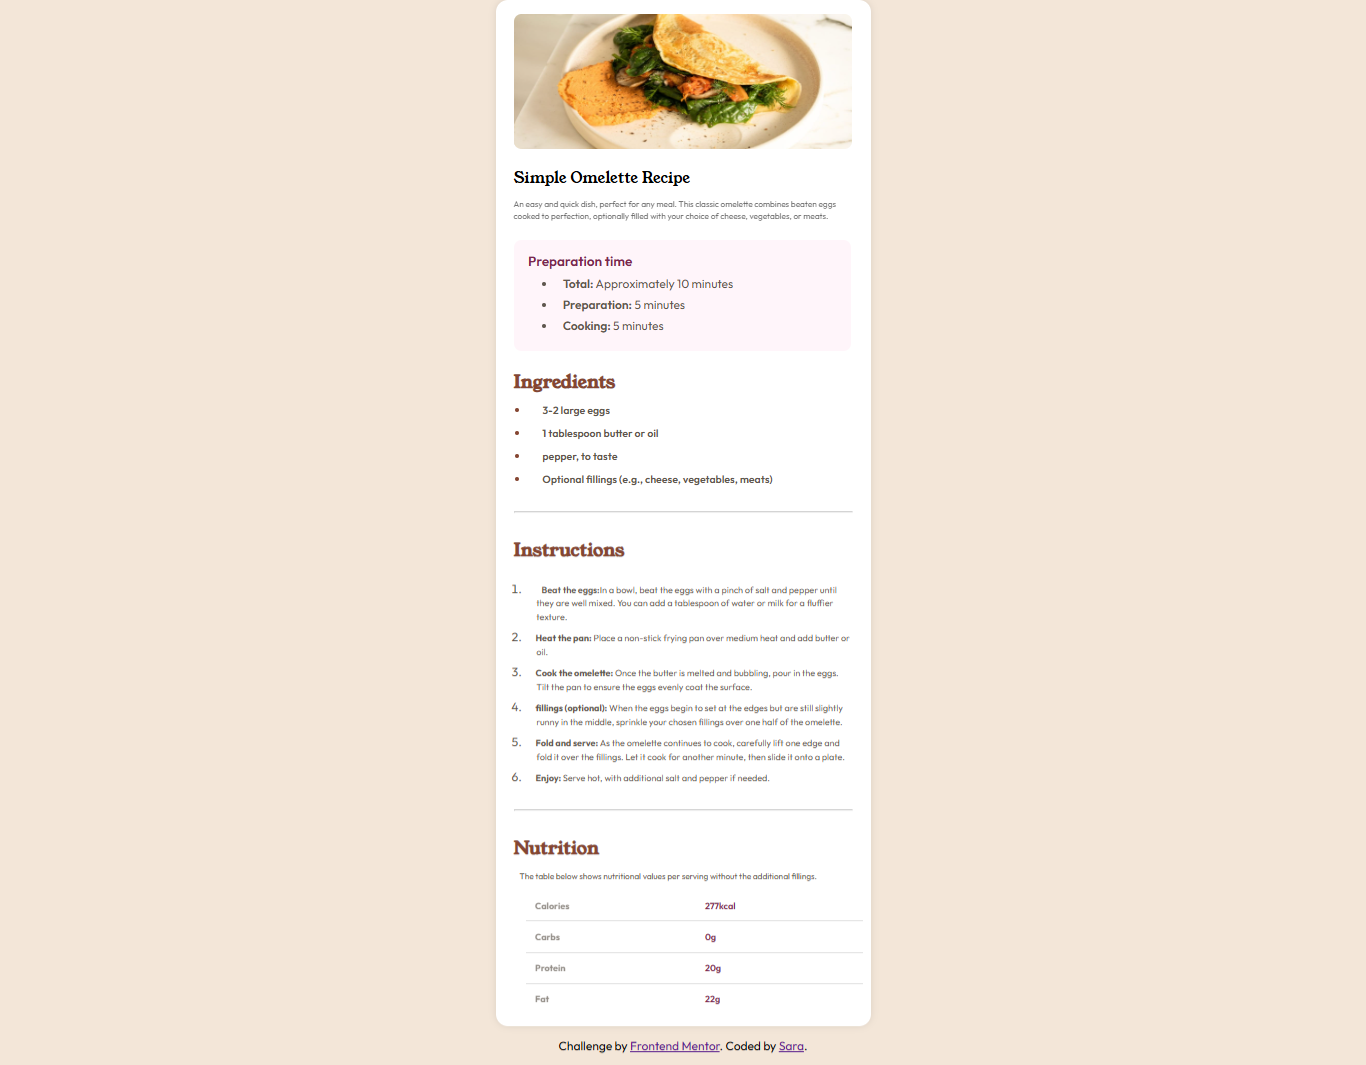
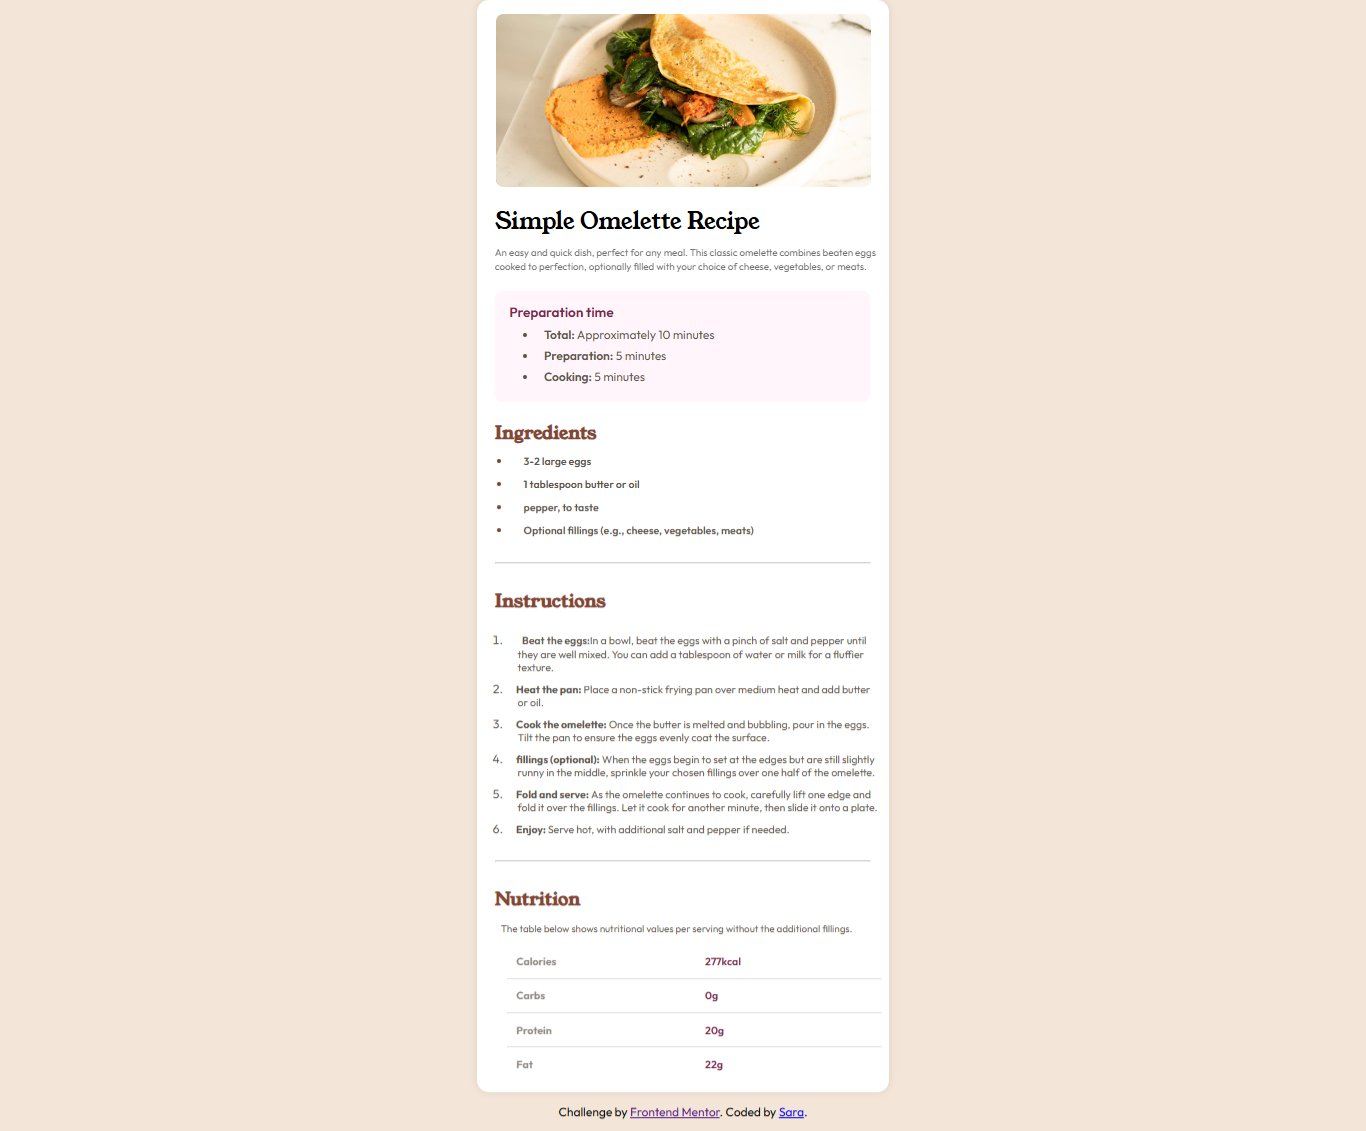
Recipe-page

Changed region(s): [[0.3382, 0.0, 0.6764, 0.9606], [0.3997, 0.9606, 0.6149, 0.9915]]

diff --git a/index.html b/index.html
@@ -13,10 +13,10 @@
 </head>
 
 <body>
-  <div class="container" role="main" id="Home">
-    <div class="recipe-img">
-      <img src="assets/images/image-omelette.jpeg" alt="recipe-img">
-    </div>
+  <section class="main" role="main" id="main">
+    <figure class="recipe-img">
+      <img src="./assets/images/image-omelette.jpeg" alt="recipe-img" loading="lazy">
+    </figure>
     <div class="recipe-info">
       <h2 class="recipe-title">
         Simple Omelette Recipe
@@ -26,15 +26,15 @@
         to perfection, optionally filled with your choice of cheese, vegetables, or meats.
       </p>
     </div>
-    <div class="recipe-pTime">
+    <section class="recipe-pTime">
       <p class="recipe-time-header">Preparation time</p>
       <ul>
         <li><span>Total:</span> Approximately 10 minutes</li>
         <li><span>Preparation:</span> 5 minutes</li>
         <li><span>Cooking:</span> 5 minutes</li>
       </ul>
-    </div>
-    <div class="recipe-ingredients">
+    </section>
+    <section class="recipe-ingredients">
       <h2 class="recipe-ingredients-header">Ingredients</h2>
       <ul>
         <li class="marker"><span>3-2 large eggs</span></li>
@@ -42,9 +42,9 @@
         <li class="marker"><span>pepper, to taste</span></li>
         <li class="marker"><span>Optional fillings (e.g., cheese, vegetables, meats)</span></li>
       </ul>
-    </div>
+    </section>
     <hr>
-    <div class="Instructions">
+    <section class="Instructions">
       <h2>Instructions</h2>
       <ul style="list-style-type: decimal;">
         <li>
@@ -72,9 +72,9 @@
           <p>
         </li>
       </ul>
-    </div>
+    </section>
     <hr>
-    <div class="recipe-nutrition">
+    <section class="recipe-nutrition">
       <h2>Nutrition</h2>
     <p>The table below shows nutritional values per serving without the additional fillings.</p>
       <table>
@@ -95,11 +95,11 @@
           <td>22g</td>
         </tr>
       </table>
-    </div>
-  </div>
+    </section>
+  </section>
   <div class="attribution">
     Challenge by <a href="https://www.frontendmentor.io?ref=challenge" target="_blank">Frontend Mentor</a>.
-    Coded by <a href="#Home">Sara</a>.
+    Coded by <a href="#main">Sara</a>.
   </div>
 </body>
 

diff --git a/style.css b/style.css
@@ -38,8 +38,8 @@ body {
     justify-content: center;
 }
 
-.container {
-    width: 500px;
+.main {
+    width: 550px;
     height: auto;
     border-radius: 16px;
     box-shadow: 0 0 10px rgba(0, 0, 0, 0.1);
@@ -54,8 +54,8 @@ body {
 }
 
 .recipe-img img {
-    width: 450px;
-    height: 180px;
+    width: 500px;
+    height: 230px;
     border-radius: 10px;
 }
 
@@ -65,22 +65,22 @@ body {
 
 .recipe-info h2 {
     font-family: var(--FFY);
-    font-weight: 400;
-    font-size: 20px;
+    font-weight: 500;
+    font-size: 30px;
 }
 
 .recipe-description {
     font-family: var(--FFU);
-    font-size: 11px;
+    font-size: 13px;
     margin-top: 0.8rem;
-    width: 450px;
+    width: 550px;
     opacity: 0.6;
     flex-wrap: wrap;
-    line-height: 16px;
+    line-height: 18px;
 }
 
 .recipe-pTime {
-    width: 450px;
+    width: 500px;
     padding: 1rem 1.2rem;
     background-color: var(--Rose50);
     margin: 1.5rem;
@@ -159,9 +159,9 @@ hr {
     color: var(--Stone600);
     margin-left: 1rem;
     line-height: 18px;
-    width: 420px;
-    text-indent: -1px;
-    font-size: 12px;
+    width: 480px;
+    text-indent: -2px;
+    font-size: 14px;
 }
 
 .recipe-nutrition h2 {
@@ -173,8 +173,8 @@ hr {
 .recipe-nutrition p {
     color: var(--Stone600);
     margin: 0.8rem 2rem;
-    font-size: 11px;
-    width: 400px;
+    font-size: 13px;
+    width: 500px;
 }
 
 .recipe-nutrition table td {
@@ -187,10 +187,10 @@ th,
 tr,
 td {
     border-collapse: collapse;
-    width: 450px;
+    width: 500px;
     height: 20px;
     text-align: left;
-    font-size: 12px;
+    font-size: 14px;
     margin: 0rem 2.5rem;
     margin-bottom: 1rem;
 }
@@ -217,7 +217,7 @@ th, td{
 }
 /*|| SMALL*/
 @media screen and (max-width: 375px) {
-    .container{
+    .main{
         width: 350px;
     }
     .recipe-img img {
